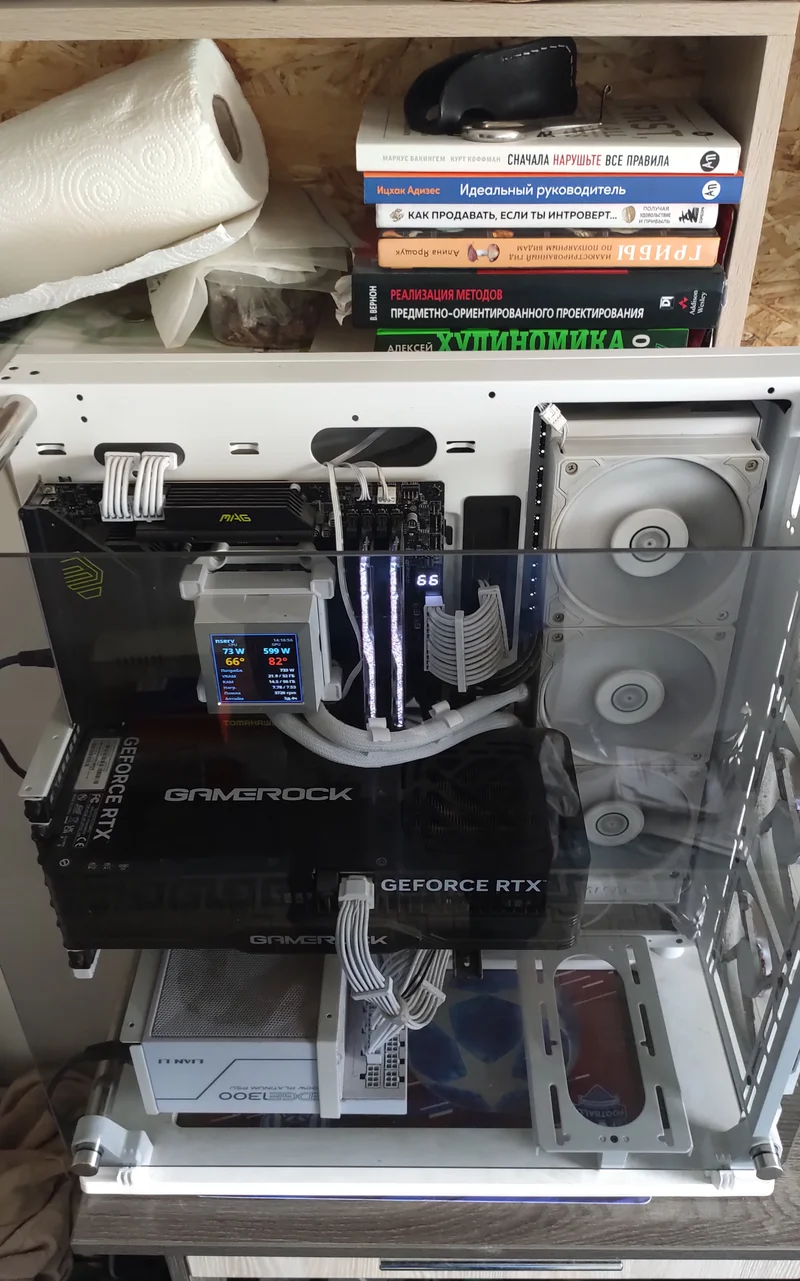
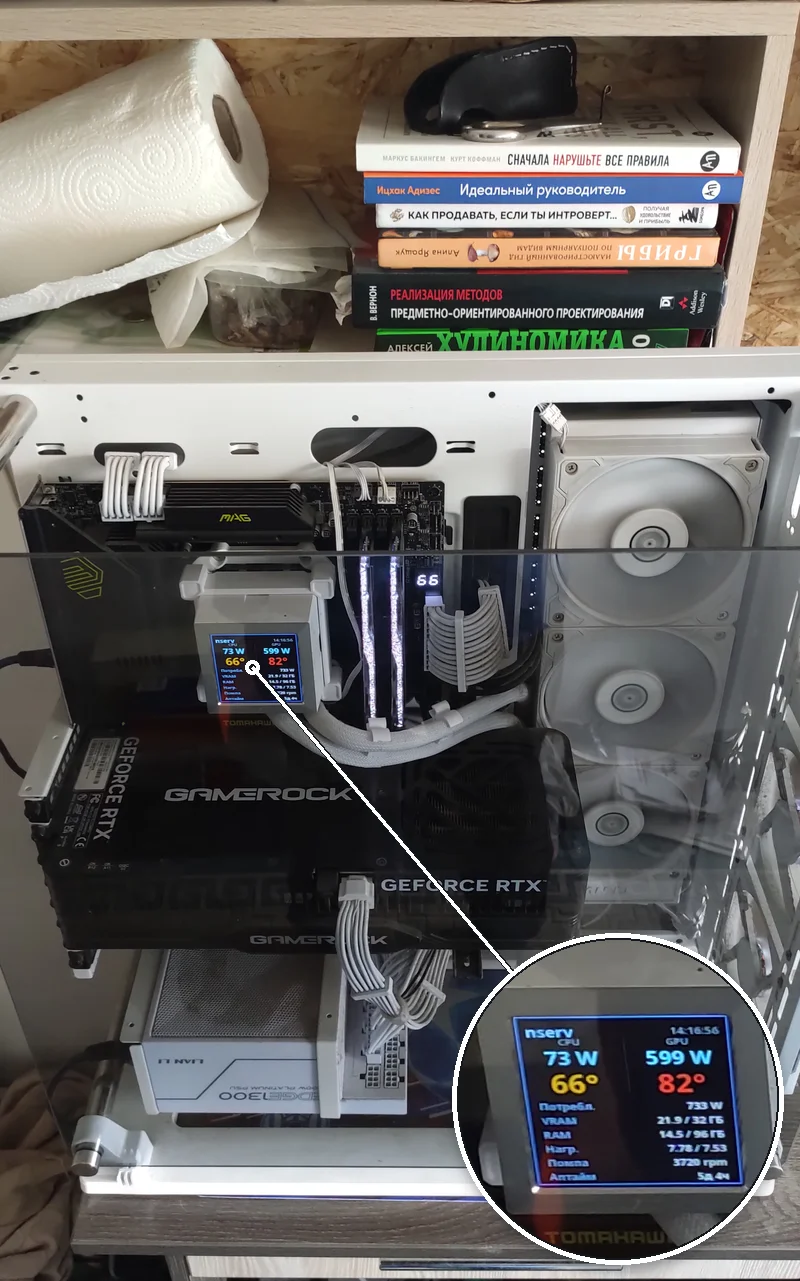
фото под нагрузкой: дисплей телеметрии вынесен круглой вставкой на общий кадр (GPU 599 Вт у лимита 600), из заголовка ленты убрана дата

diff --git a/reports/TEST-ASSIGNMENT-report.html b/reports/TEST-ASSIGNMENT-report.html
@@ -374,13 +374,14 @@ style="width:100%;border-radius:10px;border:1px solid var(--line);display:block"
 <tr><td>KV-кэш</td><td>OLLAMA_KV_CACHE_TYPE=q8_0</td><td>единственный нестандартный env демона, как и в интервью</td></tr>
 </table>
 </div>
-<p style="margin:16px 0 6px">Нейроша под нагрузкой, 27 октября 2026:</p>
+<p style="margin:16px 0 6px">Нейроша под нагрузкой:</p>
 <div style="display:flex;gap:14px;flex-wrap:wrap;align-items:flex-start">
 <div style="flex:0 0 250px">
 <img src="assets/nserv-load.webp" alt="нейроша под нагрузкой: RTX 5090 GameRock в риге, дисплей телеметрии на помпе"
 style="width:100%;border-radius:10px;border:1px solid var(--line);display:block">
-<div class=sub style="margin-top:6px">Общий кадр: 5090 в риге, дисплей телеметрии
-на помпе, белые кабели 12V-2x6 в разъёме видюхи.</div>
+<div class=sub style="margin-top:6px">Общий кадр: 5090 в риге, белые кабели
+12V-2x6 в разъёме видюхи; в кружке — дисплей телеметрии крупно
+(GPU 599 Вт — впритык к лимиту 600).</div>
 </div>
 <div style="flex:0 0 320px">
 <img src="assets/nserv-ir-gpu.webp" alt="тепловизор: максимум 86.8 °C на 5090 под нагрузкой"

diff --git a/test-assignment/backend/billing/build_report.py b/test-assignment/backend/billing/build_report.py
@@ -4845,13 +4845,14 @@ style="width:100%;border-radius:10px;border:1px solid var(--line);display:block"
 <tr><td>KV-кэш</td><td>OLLAMA_KV_CACHE_TYPE=q8_0</td><td>единственный нестандартный env демона, как и в интервью</td></tr>
 </table>
 </div>
-<p style="margin:16px 0 6px">Нейроша под нагрузкой, 27 октября 2026:</p>
+<p style="margin:16px 0 6px">Нейроша под нагрузкой:</p>
 <div style="display:flex;gap:14px;flex-wrap:wrap;align-items:flex-start">
 <div style="flex:0 0 250px">
 <img src="assets/nserv-load.webp" alt="нейроша под нагрузкой: RTX 5090 GameRock в риге, дисплей телеметрии на помпе"
 style="width:100%;border-radius:10px;border:1px solid var(--line);display:block">
-<div class=sub style="margin-top:6px">Общий кадр: 5090 в риге, дисплей телеметрии
-на помпе, белые кабели 12V-2x6 в разъёме видюхи.</div>
+<div class=sub style="margin-top:6px">Общий кадр: 5090 в риге, белые кабели
+12V-2x6 в разъёме видюхи; в кружке — дисплей телеметрии крупно
+(GPU 599 Вт — впритык к лимиту 600).</div>
 </div>
 <div style="flex:0 0 320px">
 <img src="assets/nserv-ir-gpu.webp" alt="тепловизор: максимум 86.8 °C на 5090 под нагрузкой"
